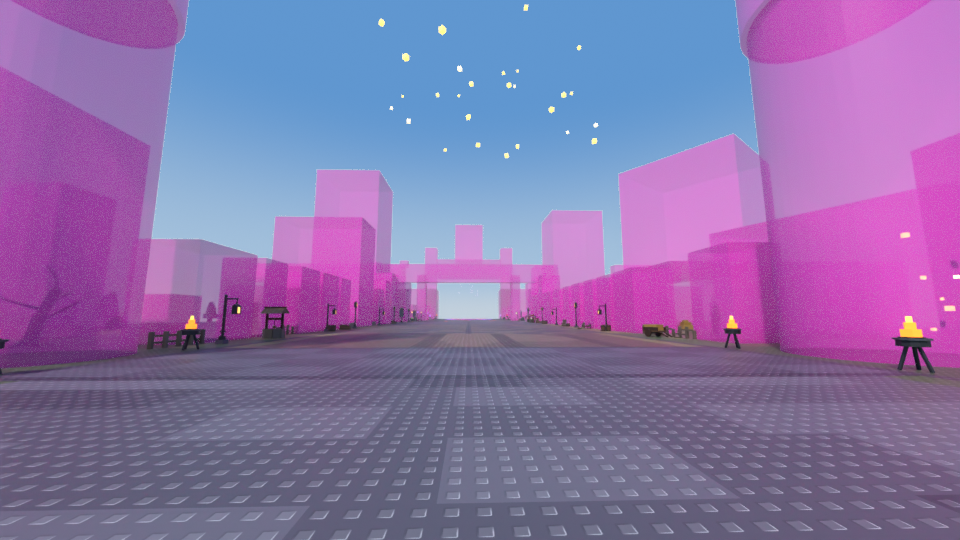
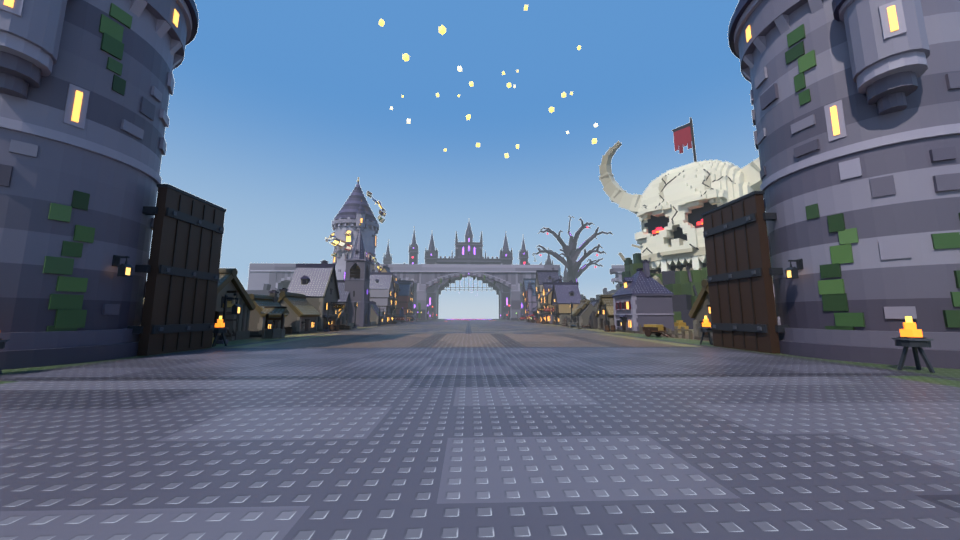
Zone Black Clover : remparts (porte aux deux tours, ruines, aqueduc)
Claude-Session: https://claude.ai/code/session_01Uz1XD7gBnXh7bavLKNM3vM

diff --git a/roblox/zone-black-clover/assets/abime.py b/roblox/zone-black-clover/assets/abime.py
@@ -228,6 +228,18 @@ def _couronne(b, x0, x1, z0, z1, y, h_fleche, *, w_tambour=None, h_tambour=7.0, 
     return top
 
 
+def _corne(b, p, dx, dz, L=3.2, ep=0.9) -> None:
+    """Pointe d'angle recourbée (gargouille stylisée, sans visage) : deux segments qui sortent de l'angle (p) vers
+    (dx, dz) puis plongent ; 2 pièces."""
+    p = _v(p)
+    n = math.hypot(dx, dz) or 1.0
+    ux, uz = dx / n, dz / n
+    q = p + _v((ux * L, -0.25 * L, uz * L))
+    r = q + _v((ux * 0.45 * L, -0.55 * L, uz * 0.45 * L))
+    _poutre(b, p - _v((ux, 0, uz)) * 0.6, q, ep, c("obsidienne"), ext=0.2, name="Corne", **DECO)
+    _poutre(b, q, r, ep * 0.55, c("obsidienne"), ext=0.15, name="Corne", **FIN)
+
+
 def _merlons(b, xa, xb, y0, z0, z1, larg=2.5, pas=5.0, h=3.0, col=None) -> None:
     """Merlons réguliers de xa à xb (créneaux entre eux)."""
     col = c("chateau_arete") if col is None else col
@@ -300,9 +312,11 @@ def _falaise_chateau(b, rng, L2, D, xt) -> dict:
                 else:
                     h1 = round(h * float(rng.uniform(0.35, 0.6)))
                     assises = [(0, h1, zf), (h1, h, zf + float(rng.choice((2.0, 3.0))))]
+                dos = [D, D - float(rng.choice((0.0, 2.0, 3.0))), D - float(rng.choice((3.0, 4.0, 6.0)))]
                 for k, (ya, yb, z) in enumerate(assises):
                     col = roche(rng) if rng.random() < 0.8 else vary("basalte_clair", rng, 0.08)
-                    b.box((x0, ya, z), (x1, yb, D), col, studs="top", name="Roche")
+                    zb = dos[k] if (u0 + u1) / 2 > xt + 12 else D
+                    b.box((x0, ya, z), (x1, yb, zb), col, studs="top", name="Roche")
                     if k == 0:
                         continue
                     zp = assises[k - 1][2]
@@ -487,6 +501,11 @@ def _porte_chateau(b, rng, arc, arc_dos, xo, hp, D, YC) -> None:
             y0 = max(y for (xa, xb, y) in arc if not (u1 <= xa or u0 >= xb)) + hv - 0.3
             _bx(b, s, u0, u1, y0, YG + 3.7, ZF - 1.3, zt + 0.2, cc, name="Pilastre")
             _pinacle(b, s * (u0 + u1) / 2, YG + 3.7, ZF - 0.1, 2.4, 3.5, aiguille=8.0)
+    with b.group("Revers"):
+        b.box((-xo, YG, D - 1.6), (xo, YG + 2.5, D), ch, studs="top", name="Parapet")
+        for s in (-1, 1):
+            for x in (25.0, 32.0, 39.0, 46.0):
+                b.box((s * x - 1.4, YG + 2.5, D - 1.6), (s * x + 1.4, YG + 5.0, D), ca, studs="top", name="Merlon")
     with b.group("Herse"):
         zh = ZR + 1.2
         fer = c("fer_fonce")
@@ -523,6 +542,8 @@ def _tour_porte(b, rng, s, xo, xt, hp, D) -> None:
         _archere(b, s * (um + 3.6), 12.0)
     x0, x1 = _sx(s, xo, xt)
     _couronne(b, x0, x1, ZF, ZT, H, 32.0, w_tambour=11.0, h_tambour=8.0, h_pinacle=5.0)
+    _corne(b, (s * (xt - 0.4), H - 3.0, ZF + 0.6), s * 3.0, -0.55)
+    _corne(b, (s * (xo + 0.4), H - 3.0, ZF + 0.6), -s * 3.0, -0.55)
 
 
 def _tunnel(b, xo, xt, hp, D, YC) -> None:
@@ -561,6 +582,14 @@ def _donjon(b, D) -> None:
             _lancette(b, u, 100.0, 1.6, 10.0, appui=False)
     _couronne(b, -21, 21, z0, z1, 116, 27.0, w_tambour=12.0, h_tambour=11.0, h_pinacle=7.0, saillie=1.2,
               cz_tambour=z0 + 7.5)
+    with b.group("ArcsBoutants"):
+        for s in (-1, 1):
+            for zc in (-9.0, 6.0):
+                pa = (s * 21.0, 110.0, zc)                    # tête contre le donjon
+                pb = (s * 51.5, 97.5, max(zc, -12.0))         # pied sur le parapet de la tour de porte
+                _poutre(b, pa, pb, 1.6, ca, ep_z=1.4, ext=0.4, name="ArcBoutant")
+                m = ((pa[0] + pb[0]) / 2, (pa[1] + pb[1]) / 2 - 1.2, (pa[2] + pb[2]) / 2)
+                _poutre(b, (s * 24.0, 107.5, zc), m, 1.1, ch, ext=0.3, name="ArcBoutant", **DECO)
 
 
 def _toit(b, s, u0, u1, z0, z1, y, h, col=None) -> None:
@@ -595,7 +624,7 @@ def _tourelle(b, s, u0, u1, z0, z1, y0, y1, h_fleche, *, fen=(), cote=None, ocul
 def _socle(cols, u0, u1) -> float:
     """Base d'un bâtiment posé sur la falaise : 3 sous la colonne la plus basse qu'il recouvre."""
     hs = [h for (a, bb, h, zf) in cols if not (bb <= u0 or a >= u1)]
-    return (min(hs) if hs else 40.0) - 3.0
+    return (min(hs) if hs else 40.0) - 3.3
 
 
 def _aile(b, rng, s, xt, D, cols) -> None:
@@ -614,8 +643,12 @@ def _aile(b, rng, s, xt, D, cols) -> None:
     # haute tourelle
     yt = 104.0 if s > 0 else 96.0
     y0 = _socle(cols, 82, 94)
-    _tourelle(b, s, 82, 94, -17.3, -5, y0, yt, 28.0 if s > 0 else 24.0, fen=((62.0, 2.2, 10.0), (80.0, 2.0, 8.0)),
+    _tourelle(b, s, 82, 94, -17.3, -5, y0, yt, 28.0 if s > 0 else 24.0, fen=((62.0, 2.2, 10.0),),
               cote=(74.0, 1.8, 8.0) if s > 0 else None, oculus=(yt - 8.0, 1.8), h_tambour=7.0)
+    with _face(b, "-z", -17.3):
+        _banniere(b, s * 88.0, yt - 12.0, 4.0, 18.0, c("cramoisi") if s > 0 else c("violet_profond"))
+    for u, sg in ((82.0, -1.0), (94.0, 1.0)):
+        _corne(b, (s * (u + 0.4 * sg), yt - 2.5, -16.7), s * sg * 2.6, -0.5, L=2.6, ep=0.75)
     if s > 0:
         # grande salle : contreforts, trois lancettes, toit d'ardoise violette, pinacles sur le faîtage
         y0 = _socle(cols, 94, 124)
@@ -853,9 +886,9 @@ def arbre_demon(b, variant: int = 0, hauteur: float = 150) -> dict:
                 d = np.array([math.cos(ph) * math.cos(el), math.sin(el), math.sin(ph) * math.cos(el)])
                 q = p + d * Ls[j] * k
                 rq = math.hypot(q[0], q[2])
-                if rq > 53.0 * k:                    # houppier dans un rayon de 55
-                    q[0] *= 53.0 * k / rq
-                    q[2] *= 53.0 * k / rq
+                if rq > 49.0 * k:                    # houppier dans un rayon de 55 (griffes comprises)
+                    q[0] *= 49.0 * k / rq
+                    q[2] *= 49.0 * k / rq
                 _segment_veine(b, p, q, eps[j] * k, 35.0 * j, (ra, rc)[(j + nb) % 2], centre_axe,
                                veine=(j == 1) or (j == 0 and nb % 3 == 0), name="Branche")
                 if j in (1, 2, 3) and not (j == 3 and nb % 2):          # rameaux secondaires en griffes
@@ -925,7 +958,7 @@ def ilot_flottant(b, variant: int = 0, taille: float = 14, ancres=()) -> dict:
     dessus = (c("herbe_grise"), c("cendre"), c("roche_noire"), c("cendre_fonce"))[v]
     with b.group("Ilot"):
         b.box((-rx, -1.4, -rz), (rx, 0, rz), dessus, studs="top", name="Dessus")
-        b.boxc((0.15 * t, -1.0, -0.12 * t), (0.78 * t, 1.6, 0.66 * t), roche(rng), yaw=32, studs="top", name="Rebord")
+        b.boxc((0.06 * t, -1.0, -0.05 * t), (0.7 * t, 1.6, 0.56 * t), roche(rng), yaw=32, studs="top", name="Rebord")
         y = -1.4
         n = 5
         depth = 0.8 * t
@@ -1017,16 +1050,17 @@ def falaise(b, variant: int = 0, longueur: float = 60, profondeur: float = 50, h
         for i, (x0, x1) in enumerate(cols):
             xm = (x0 + x1) / 2
             e = abs(xm) / (L / 2)
-            hc = H * (0.8 + 0.2 * float(rng.random())) * (1 - 0.2 * e ** 3)
-            if rng.random() < 0.25:
-                hc *= 0.82                                     # encoche
-            z0 = zf0 + float(rng.choice((0.0, 0.5, 1.0, 1.5, 2.0)))
-            h1, h2 = hc * float(rng.uniform(0.25, 0.4)), hc * float(rng.uniform(0.55, 0.75))
-            z1 = z0 + P * float(rng.uniform(0.1, 0.18))
-            z2 = z1 + P * float(rng.uniform(0.1, 0.2))
-            for (ya, yb, z) in ((0, h1, z0), (h1, h2, z1), (h2, hc, z2)):
+            hc = H * (0.66 + 0.34 * float(rng.random())) * (1 - 0.2 * e ** 3)
+            if rng.random() < 0.3:
+                hc *= 0.78                                     # encoche
+            z0 = zf0 + float(rng.choice((0.0, 0.5, 1.0, 1.5, 2.0, 3.0)))
+            h1, h2 = hc * float(rng.uniform(0.2, 0.42)), hc * float(rng.uniform(0.5, 0.8))
+            z1 = z0 + P * float(rng.uniform(0.05, 0.22))
+            z2 = z1 + P * float(rng.uniform(0.06, 0.24))
+            dos = (P / 2, P / 2 - float(rng.choice((0.0, 2.0, 4.0))), P / 2 - float(rng.choice((4.0, 6.0, 9.0))))
+            for k_, (ya, yb, z) in enumerate(((0, h1, z0), (h1, h2, z1), (h2, hc, z2))):
                 col = roche(rng) if rng.random() < 0.82 else vary("basalte_clair", rng, 0.08)
-                b.box((x0, ya, z), (x1, yb, P / 2), col, studs="top", name="Roche")
+                b.box((x0, ya, z), (x1, yb, max(dos[k_], z + 4.0)), col, studs="top", name="Roche")
             r = rng.random()
             if r < 0.3:
                 b.wedge((x0, h1, z0), (x1, h1 + float(rng.uniform(2.5, 5)), z1), vary("basalte_clair", rng, 0.08),
@@ -1034,16 +1068,24 @@ def falaise(b, variant: int = 0, longueur: float = 60, profondeur: float = 50, h
             elif r < 0.55:
                 b.box((x0 + 0.3, h2 - 0.8, z1 - 0.4), (x1 - 0.3, h2 + 0.4, z1 + 1.2), vary("basalte_clair", rng, 0.06),
                       studs="top", name="Strate")
-            if rng.random() < 0.4 and i not in (0, len(cols) - 1):
-                w = float(rng.uniform(3, 5))
-                hp_ = float(rng.uniform(5, 11))
-                b.part("block", (w, hp_ + 2, w * 0.8), (xm + float(rng.uniform(-1, 1)), hc + hp_ / 2 - 1, z2 + float(rng.uniform(3, 9))),
-                       rot_y(float(rng.uniform(0, 90))) @ rot_z(float(rng.uniform(-12, 12))), roche(rng), studs="top",
-                       name="Pic")
+            if rng.random() < 0.7 and i not in (0, len(cols) - 1):
+                for kk in range(1 if rng.random() < 0.55 else 2):
+                    w = float(rng.uniform(3.5, 6.0)) * (0.65 if kk else 1.0)
+                    hp_ = min(float(rng.uniform(6, 14)) * (0.6 if kk else 1.0), max(2.0, 1.1 * H - hc - 1.0 - 2.0 * kk))
+                    zc = min(P / 2 - w, z2 + float(rng.uniform(2, 14)))
+                    b.part("block", (w, hp_ + 2, w * 0.8), (xm + float(rng.uniform(-1.5, 1.5)), hc + hp_ / 2 - 1 + kk * 2.0,
+                                                           zc), rot_y(float(rng.uniform(0, 90))) @ rot_z(float(rng.uniform(-14, 14))),
+                           roche(rng), studs="top", name="Pic")
+            if rng.random() < 0.3:
+                w = float(rng.uniform(2.2, 3.4))
+                xb_ = min(max(xm + float(rng.uniform(-1.5, 1.5)), x0 + 0.75 * w), x1 - 0.75 * w)
+                b.part("block", (w, 0.8 * w, w), (xb_, 0.3 * w, max(z0 + 0.4, zf0 + 0.75 * w)),
+                       rot_y(float(rng.uniform(0, 90))) @ rot_x(float(rng.uniform(-12, 12))), vary("basalte_clair", rng, 0.08),
+                       studs="top", name="Bloc")
             info.append((x0, x1, h1, h2, hc, z0, z1, z2))
     with b.group("Cristaux"):
         n_g = 2 + v % 3
-        idx = sorted(rng.choice(len(cols), size=min(n_g, len(cols)), replace=False))
+        idx = sorted(1 + rng.choice(len(cols) - 2, size=min(n_g, len(cols) - 2), replace=False))
         for j in idx:
             x0, x1, h1, h2, hc, z0, z1, z2 = info[j]
             _grappe_corniche(b, rng, (x0 + x1) / 2, h1, (z0 + z1) / 2, 0.9 + 0.2 * (j % 2), zmin_abs=zf0 + 0.3)
@@ -1053,8 +1095,9 @@ def falaise(b, variant: int = 0, longueur: float = 60, profondeur: float = 50, h
                 continue
             x0, x1, h1, h2, hc, z0, z1, z2 = info[j]
             xm = (x0 + x1) / 2
-            pts = [(xm, h2 + 0.5, z2 + 3.0), (xm + 1.5, h1 + 1.0, z1 + 0.5), (xm + 3.0, 1.0, z0 + 0.6),
-                   (xm + 5.5, -0.4, z0 - 0.4)]
+            sg = -1.0 if xm > 0 else 1.0
+            pts = [(xm, h2 + 0.5, z2 + 3.0), (xm + 1.5 * sg, h1 + 1.0, max(z1 + 0.5, zf0 + 2.0)),
+                   (xm + 3.0 * sg, 1.0, max(z0 + 0.6, zf0 + 1.8)), (xm + 5.5 * sg, -0.4, max(zf0 + 1.4, z0 - 0.4))]
             for m in range(3):
                 _poutre(b, pts[m], pts[m + 1], (2.4, 1.8, 1.3)[m], c(("racine", "racine_claire")[m % 2]), ext=0.4,
                         tors=20.0 * m, name="Racine", **(DECO if m == 2 else {}))
@@ -1063,9 +1106,10 @@ def falaise(b, variant: int = 0, longueur: float = 60, profondeur: float = 50, h
         x0, x1, h1, h2, hc, z0, z1, z2 = info[j]
         with b.at(((x0 + x1) / 2, h2, (z1 + z2) / 2 + 0.5), yaw=float(rng.uniform(0, 360))):
             mobilier.arbre_mort(b, variant=1 if v % 2 else 0, hauteur=min(10.0, 0.25 * H))
-    if v in (1, 3):
+    cands = [j for j in range(1, len(cols) - 1) if info[j][5] >= zf0 + 0.95 and info[j][1] - info[j][0] >= 6.0]
+    if v in (1, 3) and cands:
         with b.group("Grotte"):
-            j = max(1, int(len(cols) * 0.5))
+            j = min(cands, key=lambda j: abs(info[j][0] + info[j][1]))
             x0, x1, h1, h2, hc, z0, z1, z2 = info[j]
             xm = (x0 + x1) / 2
             w = min(4.5, x1 - x0 - 1.0)
@@ -1141,8 +1185,9 @@ def racine_geante(b, variant: int = 0, longueur: float = 24, hauteur: float = 10
     v = variant % 4
     rng = np.random.default_rng(1201 + 7 * v)
     L, Hh = float(longueur), float(hauteur)
-    arcs = {0: [(-L / 2, 0.46 * L, Hh)], 1: [(-L / 2, 0.06 * L, Hh), (-0.06 * L, L / 2, 0.55 * Hh)],
-            2: [(-0.46 * L, L / 2, 0.85 * Hh)], 3: [(-L / 2, 0.22 * L, Hh), (0.12 * L, L / 2, 0.45 * Hh)]}[v]
+    a, z_ = L / 2 - 1.7, 0.0
+    arcs = {0: [(-a, 0.42 * L, Hh)], 1: [(-a, 0.06 * L, Hh), (-0.06 * L, a, 0.55 * Hh)],
+            2: [(-0.42 * L, a, 0.85 * Hh)], 3: [(-a, 0.22 * L, Hh), (0.12 * L, a, 0.45 * Hh)]}[v]
     ra, rc = c("racine"), c("racine_claire")
     with b.group("Racine"):
         bouts = []

diff --git a/roblox/zone-black-clover/assets/batiments.py b/roblox/zone-black-clover/assets/batiments.py
@@ -1070,8 +1070,9 @@ def _ruine(b, v, L, P, niv):
         xx = float(rng.uniform(x0 + e + 0.8, x1 - e - 0.8))
         zz = float(rng.uniform(zf + e + 0.8, zb - e - 0.8))
         sz = float(rng.uniform(0.9, 1.6))
-        b.boxc((xx, 0.2 + sz * 0.3 + 0.07 * i, zz), (sz * 1.3, sz * 0.6, sz), pierre(), yaw=float(rng.uniform(0, 90)),
-               studs="top", name="Eboulis", **DECO)
+        hy = sz * 0.6 + 0.07 * i
+        b.boxc((xx, 0.15 + hy / 2, zz), (sz * 1.3, hy, sz), pierre(), yaw=float(rng.uniform(0, 90)), studs="top",
+               name="Eboulis", **DECO)
     for (xx, zz, sz) in ((x1 - 0.6, zf - 0.9, 1.1), (x0 + 1.4, zf - 0.6, 0.85))[: (2 if niv < 3 else 0)]:
         b.boxc((xx, sz * 0.3, zz), (sz * 1.2, sz * 0.6, sz), pierre(), yaw=float(rng.uniform(0, 90)), studs="top",
                name="Eboulis", **DECO)
@@ -1445,10 +1446,11 @@ def _eglise(b, v, L, P, niv):
 
     # ===== nef
     b.box((-wn, 0, zn0), (wn, Hn, zn1), mur, name="Nef")
-    b.box((-wn - 0.3, 0, zn0), (wn + 0.3, 1.2, zn1 + 0.3), vr("pierre_ombre", rng, 0.03), studs="top", name="Soubassement")
+    b.box((-wn - 0.3, 0, zn0 - 0.3), (wn + 0.3, 1.2, zn1 + 0.3), vr("pierre_ombre", rng, 0.03), studs="top",
+          name="Soubassement")
     for s_ in (-1, 1):
         xa, xb = sorted((s_ * (wn - 0.1), s_ * (wn + 0.4)))
-        b.box((xa, Hn - 0.7, zn0), (xb, Hn, zn1), vr(clair, rng, 0.03), name="Corniche", **DECO)
+        b.box((xa, Hn - 0.75, zn0 - 0.2), (xb, Hn - 0.05, zn1 + 0.2), vr(clair, rng, 0.03), name="Corniche", **DECO)
     zcf = (zn0 + 5.0, zn0 + 12.5, zn0 + 20.0, zn0 + 27.5)
     for s_ in (-1, 1):
         for zc in zcf:
@@ -1597,7 +1599,7 @@ def _eglise(b, v, L, P, niv):
 
 _STYLES_HAUTE = (
     dict(enduit="enduit_gris", toit="pignon", motifs=("croix", "echarpe"), pignon="enduit", bois="bois_noir"),
-    dict(enduit="enduit_ocre", toit="lucarnes", motifs=("echarpe", "croix"), pignon="enduit", bois="bois_noir"),
+    dict(enduit="enduit_ocre", toit="lucarnes", motifs=("echarpe", "chevron"), pignon="enduit", bois="bois_noir"),
     dict(enduit="enduit_rouge", toit="pignon", motifs=("chevron", "croix"), pignon="ardoise", bois="bois_noir"),
     dict(enduit="enduit_vert", toit="pignon", motifs=("croix", "chevron"), pignon="enduit", bois="bois_fonce",
          travers=True),
@@ -1665,7 +1667,13 @@ def _maison_haute(b, v, L, P, n, enseigne, niv):
             xa, xb = sorted((xc - s_ * 0.25, xc + s_ * 0.95))
             b.box((xa, 0.7, zf - 0.25), (xb, H0 - 0.05, zf + 0.95), vr("pierre", rng, 0.03), name="Pile", **DECO)
     xa_, xb_ = x0 + 0.95, x1 - 0.95
-    sf0, sf1 = sorted((flip * (xa_ + 1.3), flip * 0.4))
+    tourelle = bool(S.get("tourelle"))
+    if tourelle:
+        # la tourelle occupe l'angle côté sx : enseigne côté -sx, devanture au milieu, porte sous la tourelle
+        flip = -sx
+        sf0, sf1 = sorted((flip * (xb_ - 1.5), -flip * 0.9))
+    else:
+        sf0, sf1 = sorted((flip * (xa_ + 1.5), flip * 0.4))
     b.box((sf0 - 0.45, 0.7, zf - 0.2), (sf1 + 0.45, 5.0, zf + 0.05), bois, name="Devanture", **DECO)
     b.box((sf0, 1.4, zf - 0.3), (sf1, 4.55, zf + 0.05), col("lueur_bougie"), name="Vitrine", **NEON)
     nm = 2 if (sf1 - sf0) > 4.2 and niv < 2 else 1
@@ -1674,7 +1682,7 @@ def _maison_haute(b, v, L, P, n, enseigne, niv):
         b.box((xm - 0.14, 1.3, zf - 0.42), (xm + 0.14, 4.65, zf + 0.05), bois, name="Meneau", **FIN)
     b.box((sf0 - 0.6, 0.7, zf - 0.85), (sf1 + 0.6, 1.4, zf + 0.05), vr("bois", rng, 0.04), studs="top", name="Etalage",
           **DECO)
-    if niv < 1:
+    if niv < 2 and enseigne:
         couleurs = _MARCHANDISES.get(enseigne, ("bois_clair", "cuir_brun", "bois"))
         for i in range(3):
             xg = sf0 + (sf1 - sf0) * (i + 0.5) / 3
@@ -1685,12 +1693,16 @@ def _maison_haute(b, v, L, P, n, enseigne, niv):
                 b.boxc((xg, 1.75, zf - 0.55), (1.1, 0.7, 0.5), cg, yaw=6.0 * (i - 1), name="Herbes", **DECO)
             else:
                 b.boxc((xg, 1.85, zf - 0.55), (1.0, 0.9, 0.5), cg, yaw=8.0 * (i - 1), name="Livre", **DECO)
-    xd = flip * 2.1 if L >= 13 else flip * 2.0
     wd = 2.0 if L >= 13 else 1.8
-    _porte(b, xd, wd, 4.3, zf, bois="bois_fonce", seuil="pierre_fonce" if niv < 3 else None, pentures=niv < 2)
-    _lanterne(b, flip * (xa_ + 0.55), 4.6, zf, niv=0 if niv < 2 else 1)
+    if tourelle:
+        xd = sx * (xb_ - 1.0 - wd / 2)
+    else:
+        xd = flip * (2.1 if L >= 13 else 2.0)
+    _porte(b, xd, wd, 4.3, zf, bois="bois_fonce", seuil="pierre_fonce" if niv < 2 else None, pentures=niv < 2)
+    if not tourelle:
+        _lanterne(b, flip * (xa_ + 0.55), 4.6, zf, niv=0 if niv < 1 else 1)
     if enseigne:
-        _enseigne(b, enseigne, v % 4, flip * (xb_ - 0.6), 4.7, zf, zf - 8.6)
+        _enseigne(b, enseigne, v % 4, (-sx if tourelle else flip) * (xb_ - 0.6), 4.7, zf, zf - 8.6)
 
     # ===== étages à colombages
     W = x1 - x0
@@ -1745,7 +1757,7 @@ def _maison_haute(b, v, L, P, n, enseigne, niv):
         b.wedge((-2.75, yo1, z1 - 1.5), (2.75, yo1 + 0.9, z1 + 0.05), ardoise, down="-z", studs="top", name="ToitOriel")
     if S.get("tourelle"):
         zt = zf - 0.4
-        for (r, ya, yb) in ((0.9, 3.4, 4.2), (1.4, 4.2, 5.0), (1.85, 5.0, 5.8)):
+        for (r, ya, yb) in ((1.1, 4.9, 5.4), (1.7, 5.4, 5.8)):
             b.cyl((xt, (ya + yb) / 2, zt), r, yb - ya, rez, name="Encorbellement")
         yt1 = H + 6.0
         b.cyl((xt, (5.8 + yt1) / 2, zt), 2.1, yt1 - 5.8, enduit, name="Tourelle")
@@ -1878,8 +1890,9 @@ def _taverne(b, v, L, P, niv):
     b.box((-3.0, 4.6, zp - 0.3), (3.0, 5.1, zp + 0.3), bois, name="Sabliere")
     b.wedge((-3.3, 5.1, zf - 3.0), (3.3, 6.3, zf + 0.05), ardoise, down="-z", studs="top", name="Auvent")
     if niv < 3:
-        b.box((-0.05, 3.7, zp - 0.05), (0.05, 4.6, zp + 0.05), col("chaine"), name="Tige", **FIN)
-        mobilier._lanterne(b, 0, 2.0, zp, col("fer_fonce"), "lueur_lanterne", 0.6, name="Lanterne")
+        b.box((-0.05, 3.5, zp - 0.05), (0.05, 4.6, zp + 0.05), col("chaine"), name="Tige", **FIN)
+        b.box((-0.4, 2.3, zp - 0.4), (0.4, 3.2, zp + 0.4), col("lueur_lanterne"), name="Lanterne", **NEON)
+        b.box((-0.55, 3.2, zp - 0.55), (0.55, 3.55, zp + 0.55), col("fer_fonce"), name="Chapeau", **DECO)
     # tonneaux et banc
     if niv < 4:
         with b.at((sx * -6.9, 0, zf - 1.4)):
@@ -1889,7 +1902,7 @@ def _taverne(b, v, L, P, niv):
         b.box((xa + 0.3, 0, zf - 1.0), (xb - 0.3, 0.9, zf - 0.6), col("bois_fonce"), name="Banc")
         b.box((xa, 0.9, zf - 1.25), (xb, 1.2, zf - 0.35), col("bois"), studs="top", name="Banc", **DECO)
     if niv < 1:
-        _pierres(b, rng, 4, (x0 + 1.5, x1 - 1.5), (1.0, H0 - 0.6), zf,
+        _pierres(b, rng, 2, (x0 + 1.5, x1 - 1.5), (1.0, H0 - 0.6), zf,
                  [(-10.9, 1.1, -7.1, 5.6), (-6.7, 1.1, -2.9, 5.6), (2.9, 1.1, 6.7, 5.6), (7.1, 1.1, 10.9, 5.6),
                   (-2.3, 0, 2.3, 7.0)], couleurs=("pierre", "pierre_ombre", "moellon_fonce"))
 
@@ -1905,7 +1918,7 @@ def _taverne(b, v, L, P, niv):
                pan if niv < 3 else [], poteaux=pot if niv < 3 else None)
     H = H0 + 2 * He
     _enseigne(b, "TAVERNE", 0, sx * 4.6, H0 + 4.3, z1, zf - 8.5)
-    _lanterne(b, -sx * 2.6, 4.9, zf, niv=0 if niv < 2 else 1)
+    _lanterne(b, -sx * 2.6, 4.9, zf, niv=0 if niv < 1 else 1)
 
     # ===== toit : gouttereau sur rue, grand pignon central, deux lucarnes, deux cheminées
     R = _toit_gouttereau(b, rng, x0, x1, z2, zb, H, 1.15, ardoise, enduit, ep=0.6, deb_av=0.3, deb_ar=0.5, rive=0.3)

diff --git a/roblox/zone-black-clover/assets/remparts.py b/roblox/zone-black-clover/assets/remparts.py
@@ -496,7 +496,7 @@ def porte_entree(b, variant=0, ouverture=100, rayon_tour=13, hauteur_tour=58, ha
             _vantail(b, s, o2 - 3.0, o2 - 1.0, za, zb, 26.0, x_gond)
         with b.group(f"Liaison{cote}"):
             _pilier_liaison(b, rng, s, xt + r - 5.0, xt + r + 1.0, float(hauteur_mur) + 3.0)
-    return {"emprise": (round(2 * (xt + r + 1.4), 1), 32.0), "hauteur": round(top, 1)}
+    return {"emprise": (round(2 * (xt + r + 2.7), 1), round(r + 2.7 + zb, 1)), "hauteur": round(top, 1)}
 
 
 # ---------------------------------------------------------------------------
@@ -650,7 +650,9 @@ def mur_enceinte(b, variant=0, longueur=40.75, hauteur=34, epaisseur=8):
             _toit_conique(b, rng, ech, zc, 33.6, 3.8, 42.0, n=5, p=1.1, q=1.0)
             b.ball((ech, 42.4, zc), 0.45, c("or"), name="Epi")
             _archere(b, ech, zc, 3.0, 0.0, 26.0, 3.0, True)
-    return {"emprise": (L, e + 2.0), "hauteur": H if v != 3 else 42.85}
+    avant = {0: e / 2 + 3.0, 1: e / 2 + 3.0, 2: 10.0, 3: e / 2 + 5.8}[v]     # contreforts, éboulis, échauguette
+    arriere = 10.0 if v == 2 else e / 2 + 1.0
+    return {"emprise": (L, round(avant + arriere, 1)), "hauteur": H if v != 3 else 42.9}
 
 
 # ---------------------------------------------------------------------------
@@ -1113,8 +1115,10 @@ def aqueduc(b, variant=0, largeur=478, ouverture=94, dessous=36, hauteur=62, rup
                     noms = ("pierre_ombre", "pierre_fonce", "pierre") if j == 0 else PIERRES
                     b.box((xc - wp / 2, nv[j], -dz), (xc + wp / 2, nv[j + 1], dz),
                           _ton(rng, noms, (0.35, 0.45, 0.2) if j == 0 else (0.45, 0.2, 0.35), 0.04), name="Pile")
-                b.box((xc - wp / 2 - 0.4, y_imp - 1.0, -dz - 0.4), (xc + wp / 2 + 0.4, y_imp, dz + 0.4), c("pierre_pale"),
-                      name="Imposte")
+                ia, ib = xc - wp / 2 - 0.4, xc + wp / 2 + 0.4
+                if k == 0:                                     # piles du couloir : imposte affleurante côté couloir
+                    ia, ib = (xc - wp / 2, ib) if s > 0 else (ia, xc + wp / 2)
+                b.box((ia, y_imp - 1.0, -dz - 0.4), (ib, y_imp, dz + 0.4), c("pierre_pale"), name="Imposte")
         # culées pleines aux deux bouts (elles s'enfoncent dans les falaises)
         u_fin = centres[-1] + wp / 2
         for s in (-1, 1):
@@ -1156,7 +1160,7 @@ def aqueduc(b, variant=0, largeur=478, ouverture=94, dessous=36, hauteur=62, rup
             zf_ = zs * (dz + 0.4 + 0.3)
             for (tt, col, ep_) in ((1.5, "obsidienne", 0.12), (0.95, "lueur_violette", 0.24)):
                 b.part("block", (tt, tt, ep_), (0.0, y_cor - 1.6, zf_ + zs * (ep_ / 2 - 0.02)), rot_z(45.0), c(col),
-                       name="Rune", **(NEON if col.startswith("lueur") else DECO))
+                       name="Losange", **(NEON if col.startswith("lueur") else DECO))
         for s in (-1, 1):
             for k in range(len(centres) - 1):
                 ua, ub = centres[k] + wp / 2, centres[k + 1] - wp / 2
@@ -1257,7 +1261,7 @@ def aqueduc(b, variant=0, largeur=478, ouverture=94, dessous=36, hauteur=62, rup
         pts = []
         for i in range(15):
             u = float(rng.uniform(rup[0] + 5.0, rup[1] - 4.0))
-            pts.append((sgn_r * u, float(rng.uniform(-8.0, 8.0))))
+            pts.append((sgn_r * u, float(rng.uniform(-6.0, 6.0))))
         with b.group("Eboulis"):
             _eboulis(b, rng, pts[:5], PIERRES, (1.2, 2.2), claveaux=5)
             for (x, z) in pts[5:9]:
